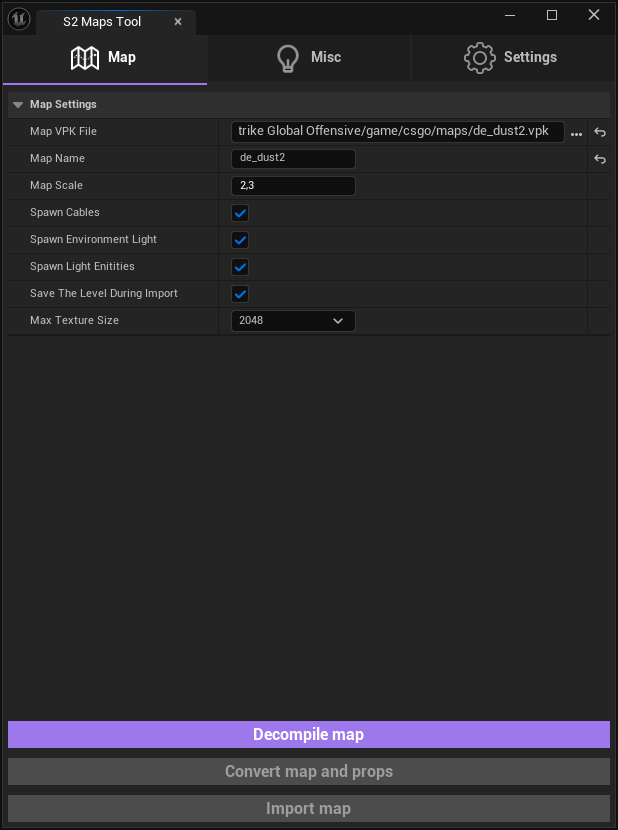
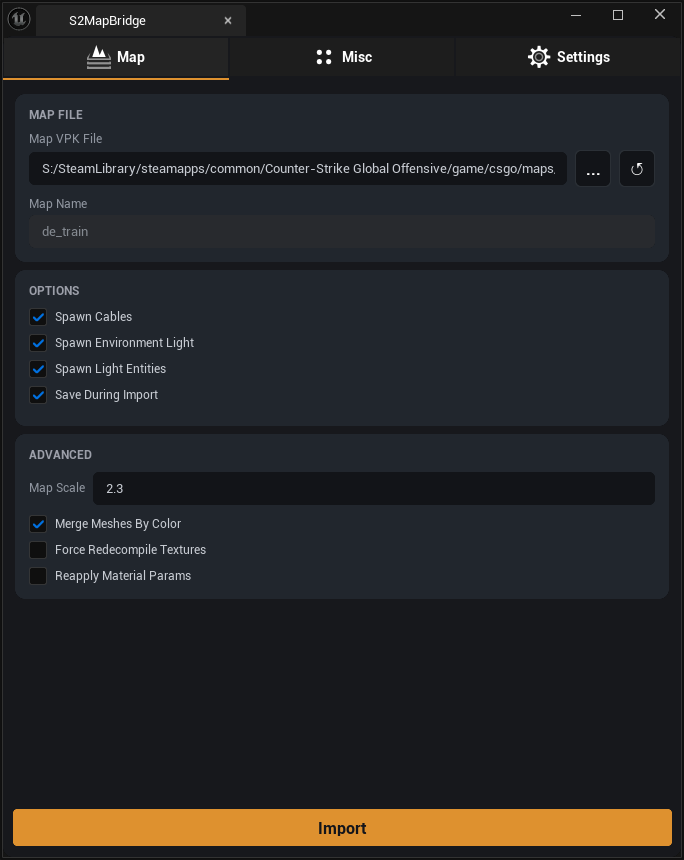
assets(s2mapbridge): update hero, import-map, settings screenshots

diff --git a/s2mapbridge/index.html b/s2mapbridge/index.html
@@ -94,8 +94,8 @@
       <span class="badge badge-size" id="file-size-badge" style="display:none"></span>
     </div>
     <div class="hero-desc">
-      <span class="lang-ru">Нативный C++ плагин для Unreal Engine, импортирующий карты CS2 напрямую из файлов Source 2 без использования сторонних конвертеров.</span>
-      <span class="lang-en">A native C++ Unreal Engine plugin that imports CS2 maps directly from Source 2 files — no third-party converters required.</span>
+      <span class="lang-ru">Нативный C++ плагин для Unreal Engine, импортирующий карты CS2/Dota2/HL:Alyx напрямую из файлов Source 2 без использования сторонних конвертеров.</span>
+      <span class="lang-en">A native C++ Unreal Engine plugin that imports CS2/Dota2/HL:Alyx maps directly from Source 2 files — no third-party converters required.</span>
     </div>
     <div class="actions">
       <a class="btn btn-primary" id="download-btn" href=""><span class="lang-ru" id="dl-label-ru">Скачать</span><span class="lang-en" id="dl-label-en">Download</span></a>
